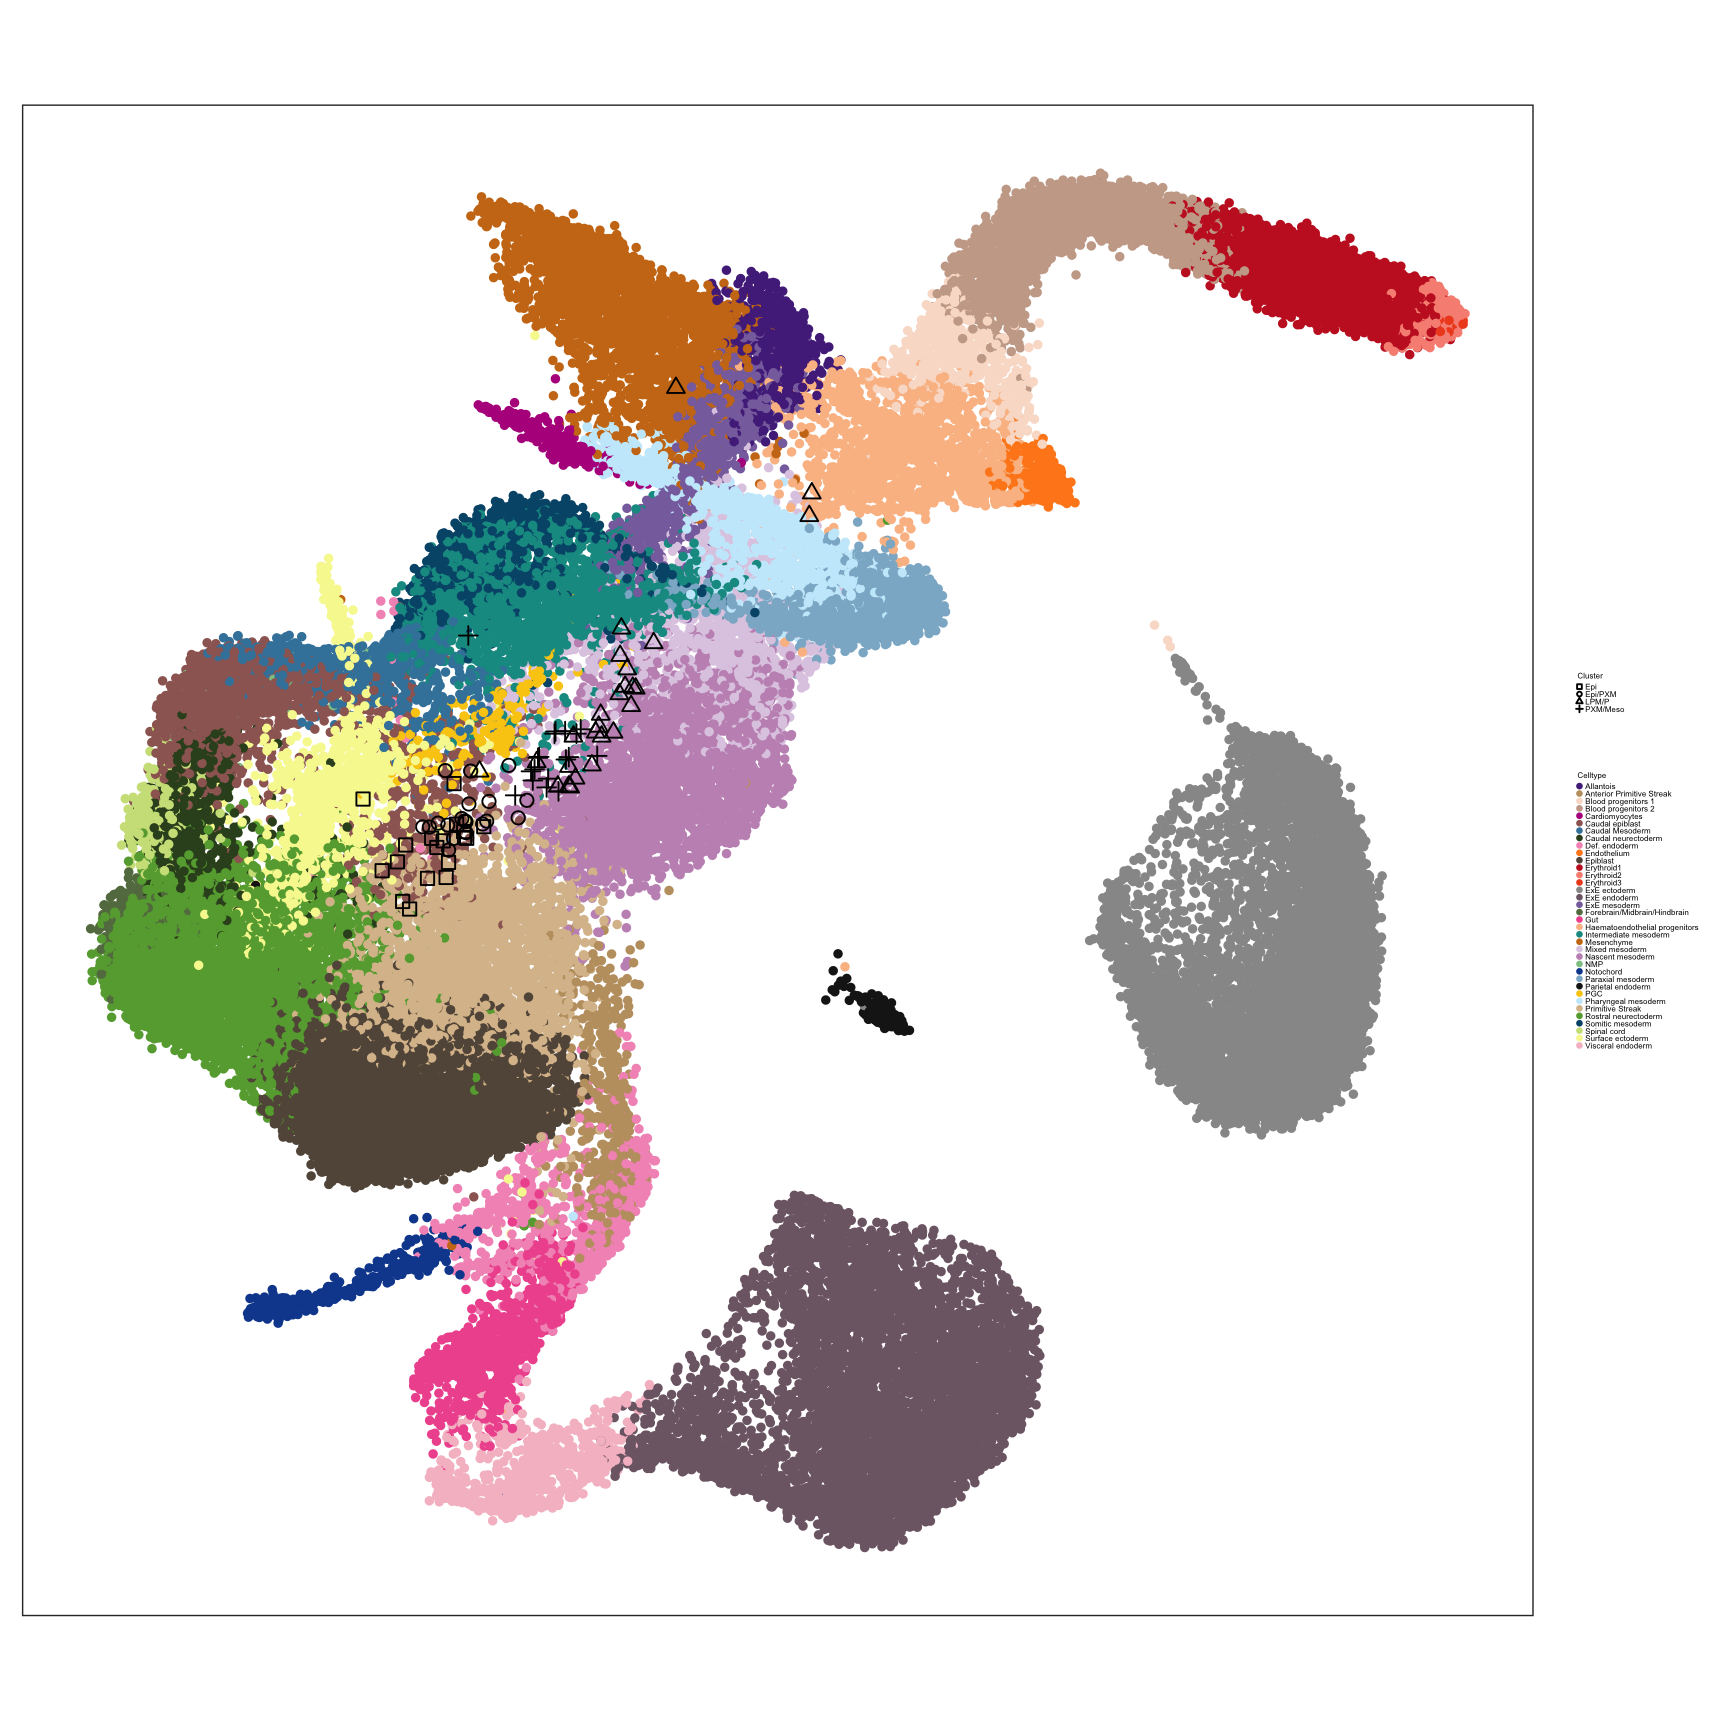
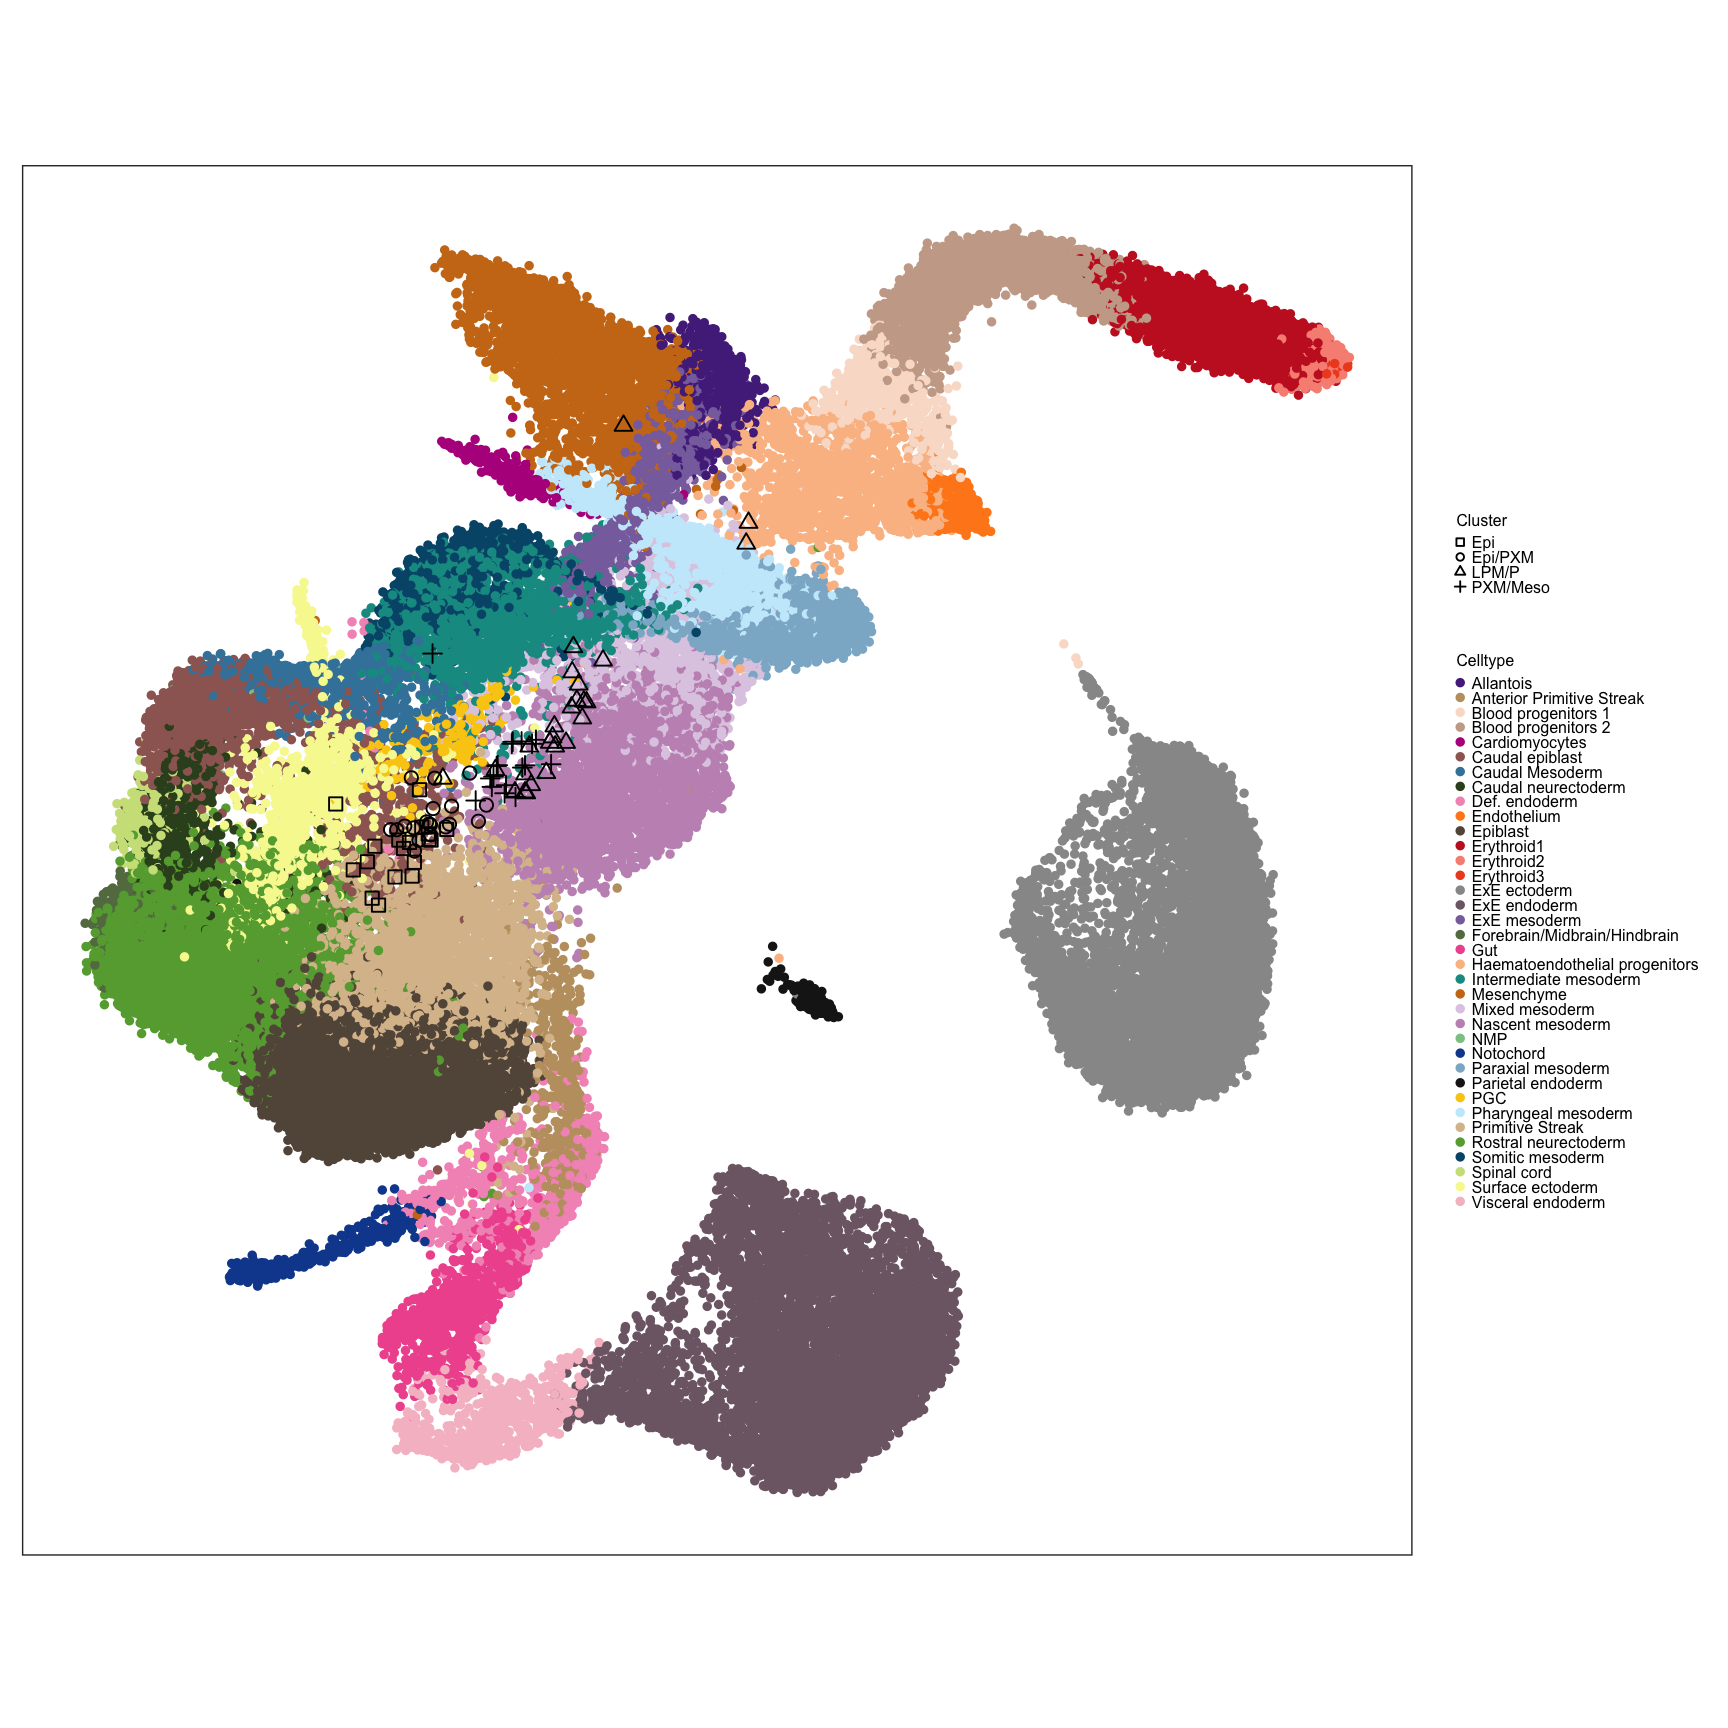
Build

diff --git a/docs/secondary-exploration.html b/docs/secondary-exploration.html
@@ -583,16 +583,16 @@ This reproducible <a href="http://rmarkdown.rstudio.com">R Markdown</a> analysis
 <div class="panel panel-default">
 <div class="panel-heading">
 <p class="panel-title">
-<a data-toggle="collapse" data-parent="#workflowr-checks" href="#strongRepositoryversionstrongahrefhttpsgithubcomjma1991LPMPEHFBtree69cd59408a5a6d0749e3d16d82ac0ebad93b558dtargetblank69cd594a"> <span class="glyphicon glyphicon-ok text-success" aria-hidden="true"></span> <strong>Repository version:</strong> <a href="https://github.com/jma1991/LPMP_EHF_B/tree/69cd59408a5a6d0749e3d16d82ac0ebad93b558d" target="_blank">69cd594</a> </a>
+<a data-toggle="collapse" data-parent="#workflowr-checks" href="#strongRepositoryversionstrongahrefhttpsgithubcomjma1991LPMPEHFBtreeac5b7c11a89e71cbf564c49264955fe66b57b9cbtargetblankac5b7c1a"> <span class="glyphicon glyphicon-ok text-success" aria-hidden="true"></span> <strong>Repository version:</strong> <a href="https://github.com/jma1991/LPMP_EHF_B/tree/ac5b7c11a89e71cbf564c49264955fe66b57b9cb" target="_blank">ac5b7c1</a> </a>
 </p>
 </div>
[2 lines of base64/hex data omitted]
 <div class="panel-body">
 <p>
 Great! You are using Git for version control. Tracking code development and connecting the code version to the results is critical for reproducibility.
 </p>
 <p>
-The results in this page were generated with repository version <a href="https://github.com/jma1991/LPMP_EHF_B/tree/69cd59408a5a6d0749e3d16d82ac0ebad93b558d" target="_blank">69cd594</a>. See the <em>Past versions</em> tab to see a history of the changes made to the R Markdown and HTML files.
+The results in this page were generated with repository version <a href="https://github.com/jma1991/LPMP_EHF_B/tree/ac5b7c11a89e71cbf564c49264955fe66b57b9cb" target="_blank">ac5b7c1</a>. See the <em>Past versions</em> tab to see a history of the changes made to the R Markdown and HTML files.
 </p>
 <p>
 Note that you need to be careful to ensure that all relevant files for the analysis have been committed to Git prior to generating the results (you can use <code>wflow_publish</code> or <code>wflow_git_commit</code>). workflowr only checks the R Markdown file, but you know if there are other scripts or data files that it depends on. Below is the status of the Git repository when the results were generated:
@@ -662,6 +662,40 @@ Message
 </tr>
 </thead>
 <tbody>
+<tr>
+<td>
+Rmd
+</td>
+<td>
+<a href="https://github.com/jma1991/LPMP_EHF_B/blob/ac5b7c11a89e71cbf564c49264955fe66b57b9cb/analysis/secondary-exploration.Rmd" target="_blank">ac5b7c1</a>
+</td>
+<td>
+James Ashmore
+</td>
+<td>
+2021-04-20
+</td>
+<td>
+Build
+</td>
+</tr>
+<tr>
+<td>
+html
+</td>
+<td>
+<a href="https://rawcdn.githack.com/jma1991/LPMP_EHF_B/d140a8845179adecd642f2228dedb31d7a7d4424/docs/secondary-exploration.html" target="_blank">d140a88</a>
+</td>
+<td>
+James Ashmore
+</td>
+<td>
+2021-04-20
+</td>
+<td>
+Build
+</td>
+</tr>
 <tr>
 <td>
 Rmd
@@ -873,7 +907,7 @@ shape.values &lt;- c(&quot;Epi&quot; = 0, &quot;Epi/PXM&quot; = 1, &quot;LPM/P&q
   theme_no_axes() + 
   theme(aspect.ratio = 1)
 
-addSmallLegend(plt)</code></pre>
+addSmallLegend(plt, pointSize = 1, textSize = 6, spaceLegend = 0.1)</code></pre>
 <p><img src="figure/secondary-exploration.Rmd/unnamed-chunk-12-1.png" width="864" style="display: block; margin: auto;" /></p>
 <p>
 <button type="button" class="btn btn-default btn-xs btn-workflowr btn-workflowr-fig" data-toggle="collapse" data-target="#fig-unnamed-chunk-12-1">
@@ -897,6 +931,17 @@ Date
 </tr>
 </thead>
 <tbody>
+<tr>
+<td>
+<a href="https://github.com/jma1991/LPMP_EHF_B/blob/d140a8845179adecd642f2228dedb31d7a7d4424/docs/figure/secondary-exploration.Rmd/unnamed-chunk-12-1.png" target="_blank">d140a88</a>
+</td>
+<td>
+James Ashmore
+</td>
+<td>
+2021-04-20
+</td>
+</tr>
 <tr>
 <td>
 <a href="https://github.com/jma1991/LPMP_EHF_B/blob/9cbc129da830c59f99e2aff74dae77d2e84926ae/docs/figure/secondary-exploration.Rmd/unnamed-chunk-12-1.png" target="_blank">9cbc129</a>

diff --git a/docs/index.html b/docs/index.html
@@ -444,16 +444,16 @@ This reproducible <a href="http://rmarkdown.rstudio.com">R Markdown</a> analysis
 <div class="panel panel-default">
 <div class="panel-heading">
 <p class="panel-title">
-<a data-toggle="collapse" data-parent="#workflowr-checks" href="#strongRepositoryversionstrongahrefhttpsgithubcomjma1991LPMPEHFBtree69cd59408a5a6d0749e3d16d82ac0ebad93b558dtargetblank69cd594a"> <span class="glyphicon glyphicon-ok text-success" aria-hidden="true"></span> <strong>Repository version:</strong> <a href="https://github.com/jma1991/LPMP_EHF_B/tree/69cd59408a5a6d0749e3d16d82ac0ebad93b558d" target="_blank">69cd594</a> </a>
+<a data-toggle="collapse" data-parent="#workflowr-checks" href="#strongRepositoryversionstrongahrefhttpsgithubcomjma1991LPMPEHFBtreeac5b7c11a89e71cbf564c49264955fe66b57b9cbtargetblankac5b7c1a"> <span class="glyphicon glyphicon-ok text-success" aria-hidden="true"></span> <strong>Repository version:</strong> <a href="https://github.com/jma1991/LPMP_EHF_B/tree/ac5b7c11a89e71cbf564c49264955fe66b57b9cb" target="_blank">ac5b7c1</a> </a>
 </p>
 </div>
[2 lines of base64/hex data omitted]
 <div class="panel-body">
 <p>
 Great! You are using Git for version control. Tracking code development and connecting the code version to the results is critical for reproducibility.
 </p>
 <p>
-The results in this page were generated with repository version <a href="https://github.com/jma1991/LPMP_EHF_B/tree/69cd59408a5a6d0749e3d16d82ac0ebad93b558d" target="_blank">69cd594</a>. See the <em>Past versions</em> tab to see a history of the changes made to the R Markdown and HTML files.
+The results in this page were generated with repository version <a href="https://github.com/jma1991/LPMP_EHF_B/tree/ac5b7c11a89e71cbf564c49264955fe66b57b9cb" target="_blank">ac5b7c1</a>. See the <em>Past versions</em> tab to see a history of the changes made to the R Markdown and HTML files.
 </p>
 <p>
 Note that you need to be careful to ensure that all relevant files for the analysis have been committed to Git prior to generating the results (you can use <code>wflow_publish</code> or <code>wflow_git_commit</code>). workflowr only checks the R Markdown file, but you know if there are other scripts or data files that it depends on. Below is the status of the Git repository when the results were generated:
@@ -523,6 +523,23 @@ Message
 </tr>
 </thead>
 <tbody>
+<tr>
+<td>
+html
+</td>
+<td>
+<a href="https://rawcdn.githack.com/jma1991/LPMP_EHF_B/d140a8845179adecd642f2228dedb31d7a7d4424/docs/index.html" target="_blank">d140a88</a>
+</td>
+<td>
+James Ashmore
+</td>
+<td>
+2021-04-20
+</td>
+<td>
+Build
+</td>
+</tr>
 <tr>
 <td>
 html
